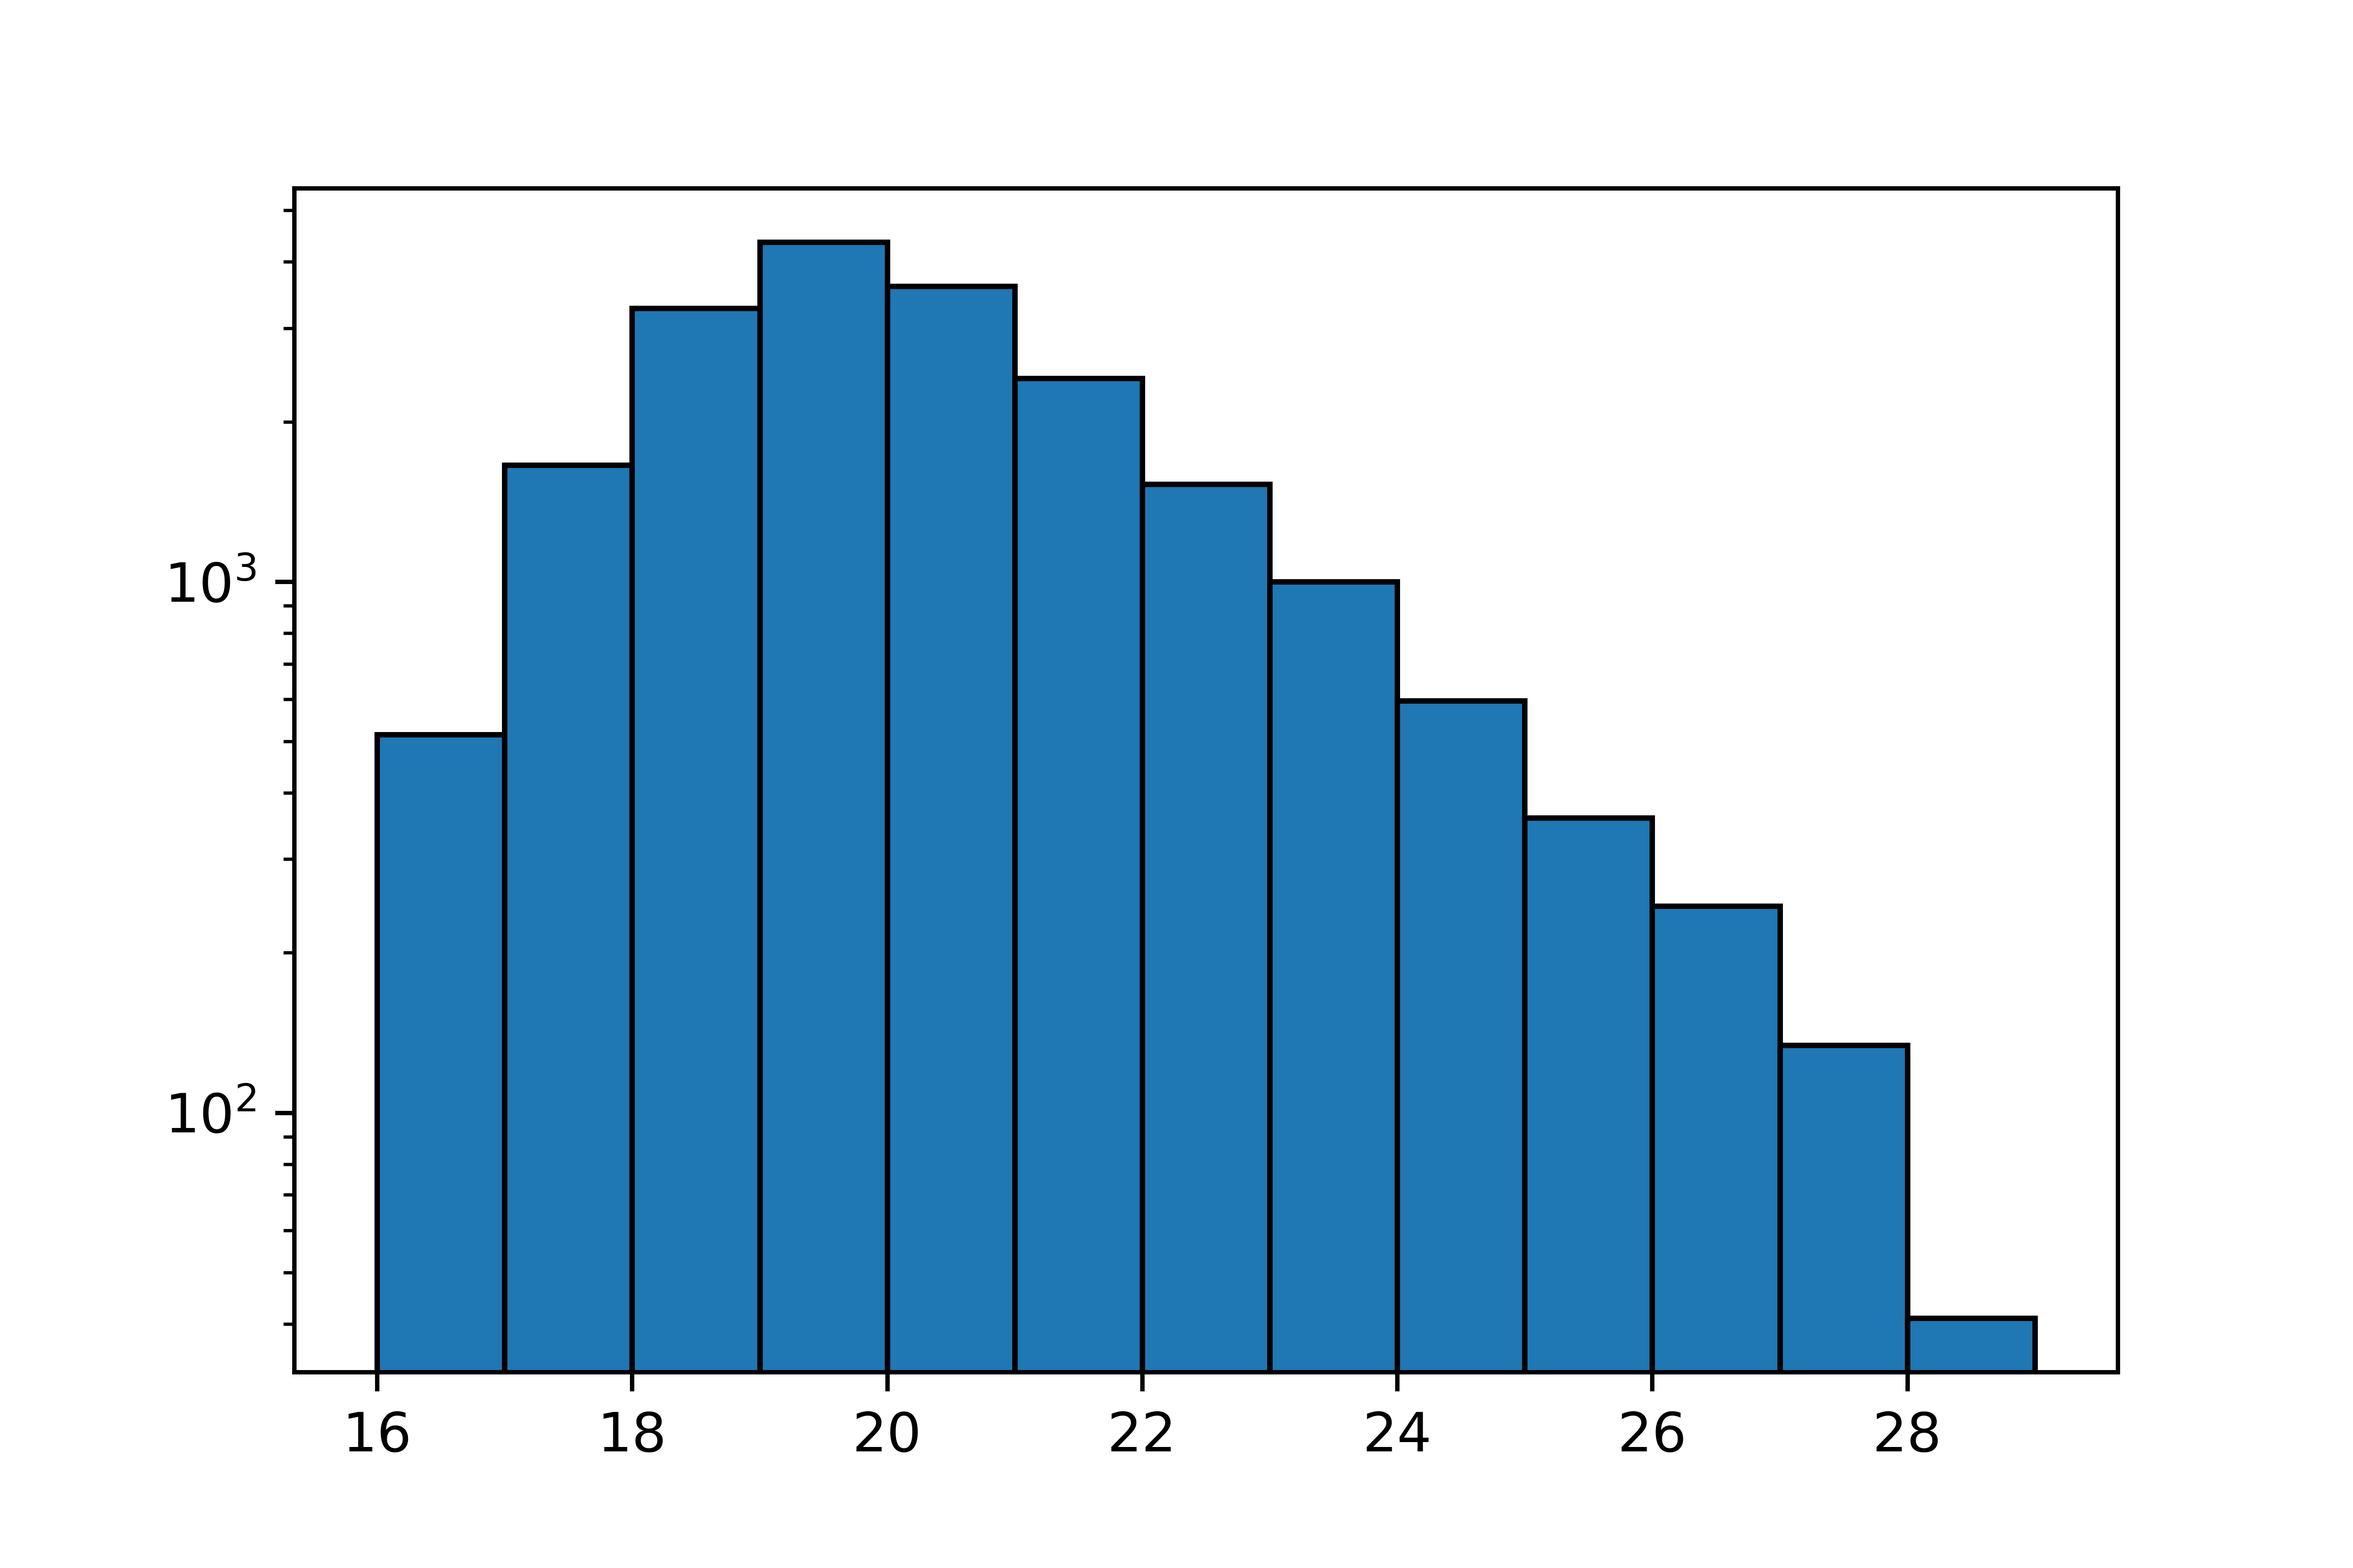
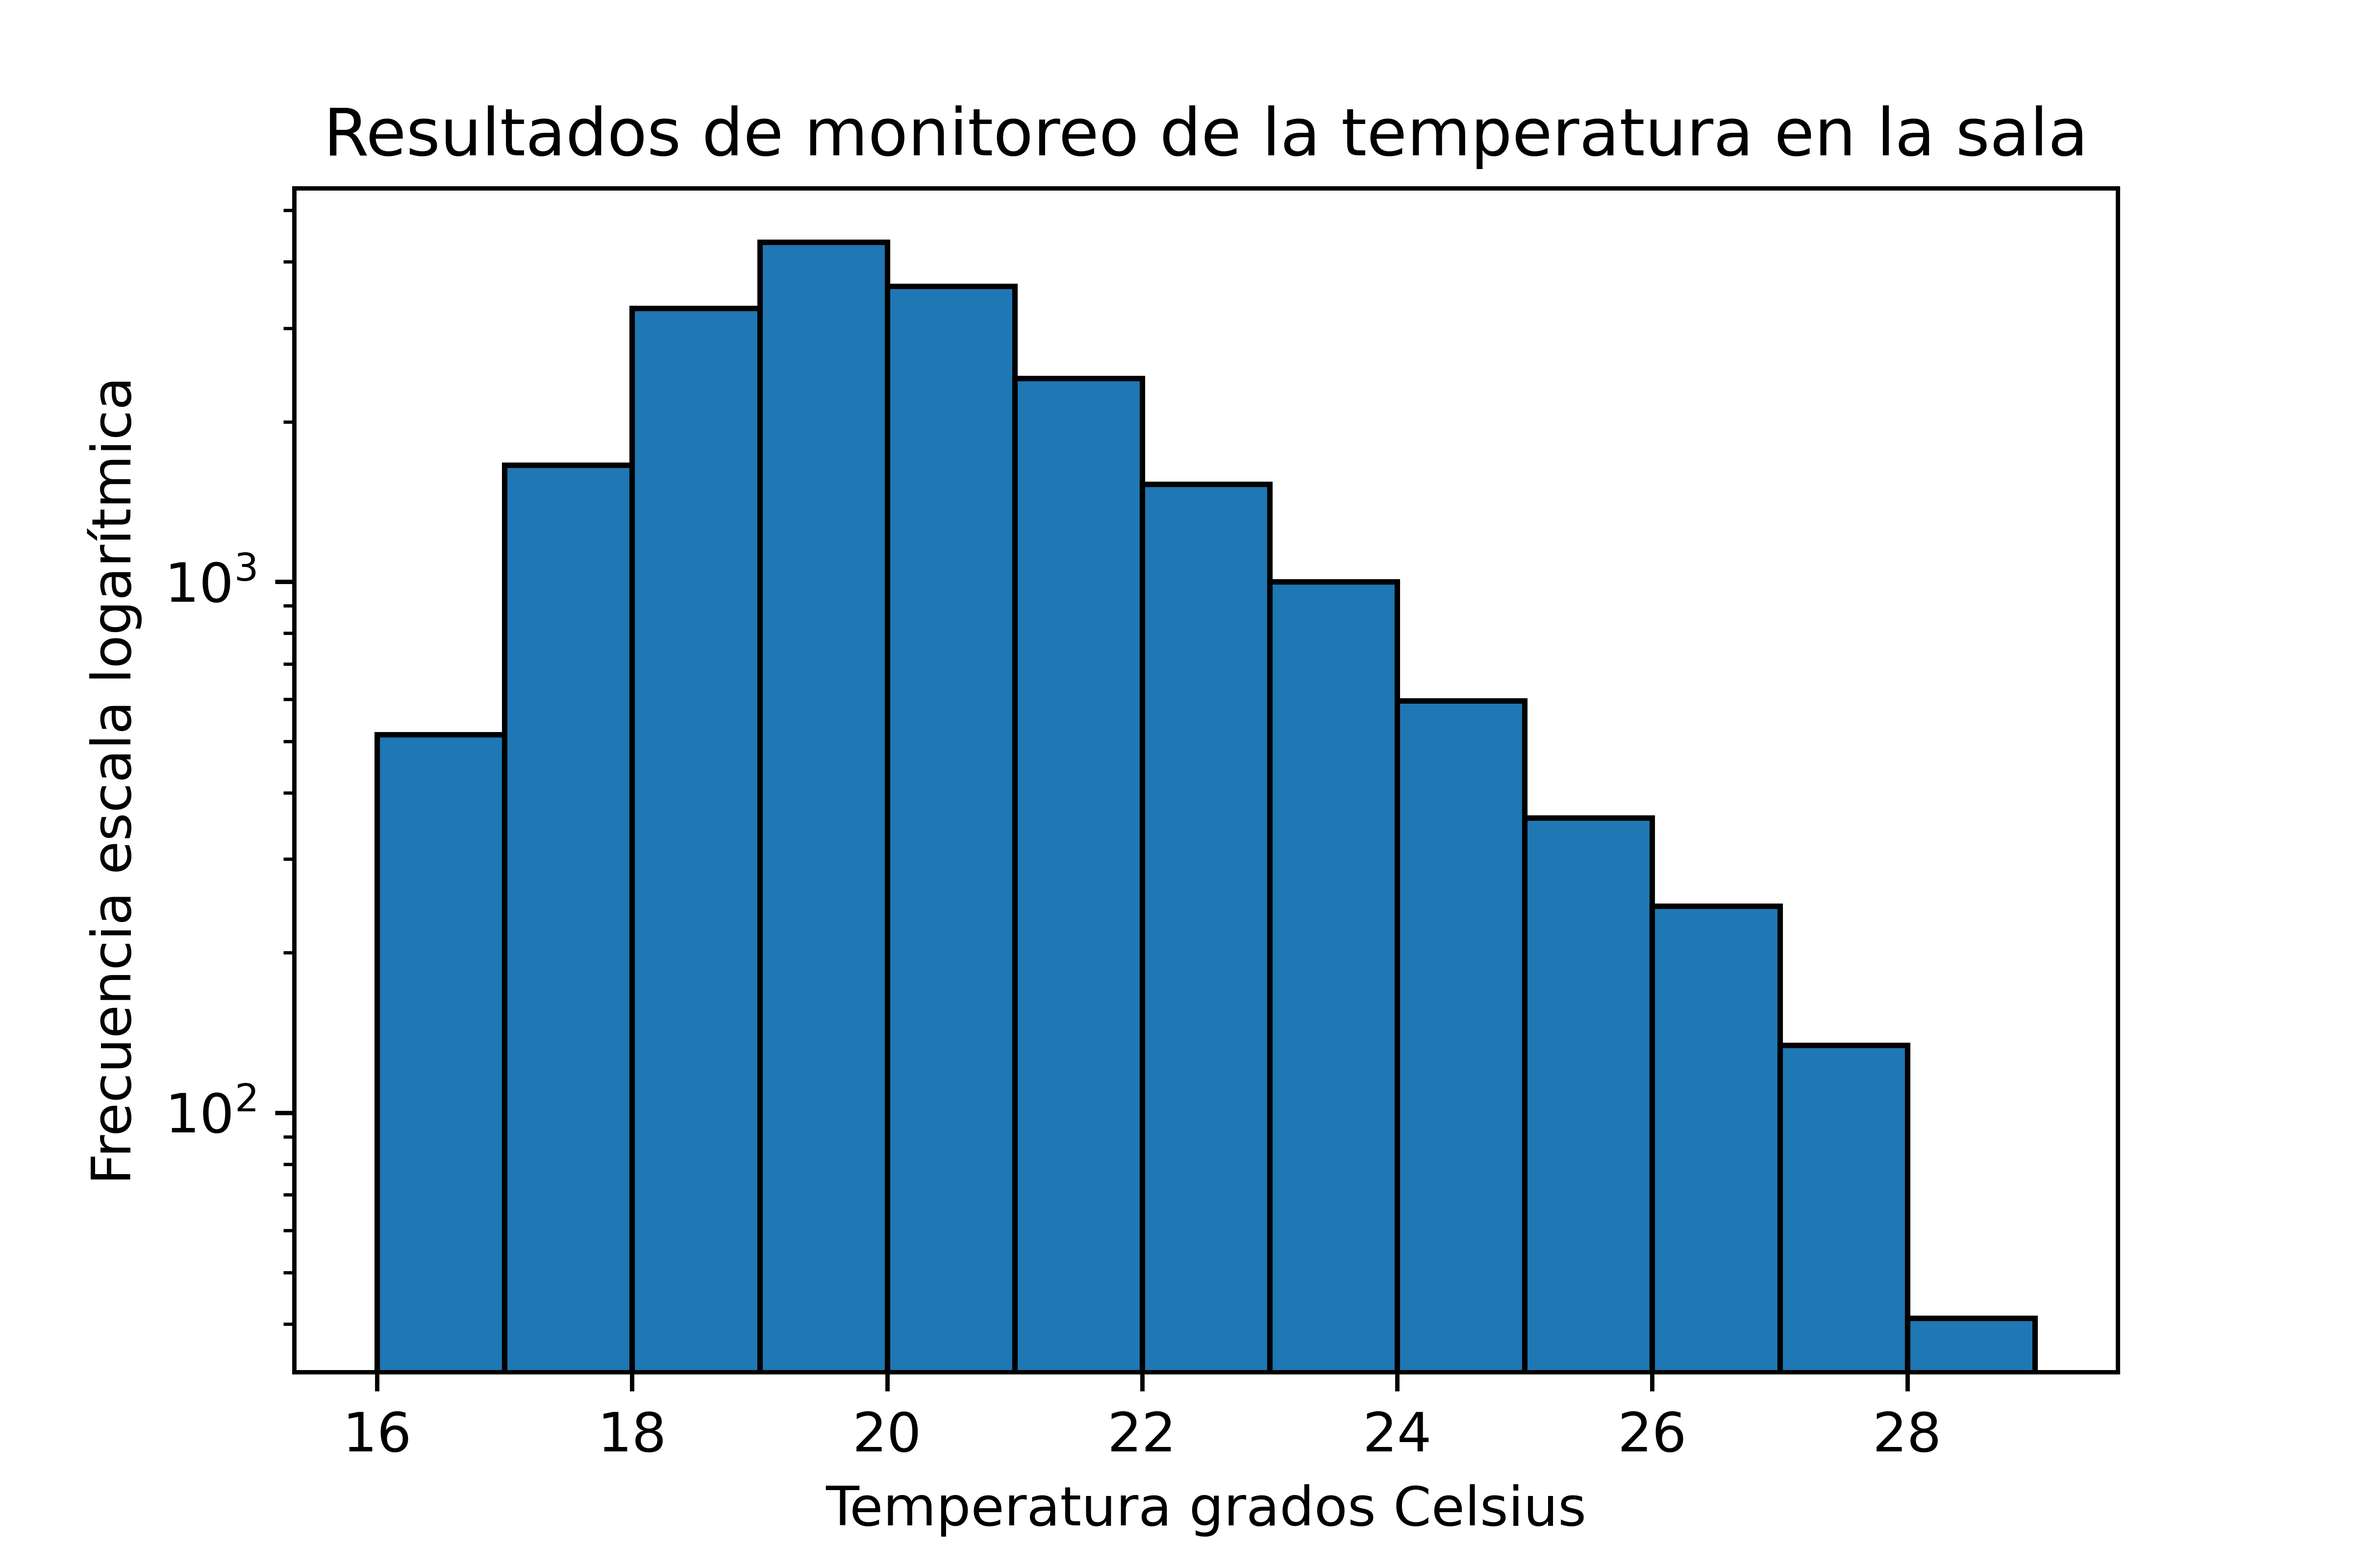
avance 2.2

Changed region(s): [[0.125, 0.0625, 0.875, 0.125], [0.0312, 0.25, 0.0625, 0.75], [0.3438, 0.9375, 0.6562, 0.9688]]

diff --git a/Panda/avance 2.py b/Panda/avance 2.py
@@ -28,6 +28,10 @@ def creación_lista_datos_temp(): ##Funcion que crea la lista de los datos
     return (lecturas_sensores_temp)    
 lecturas_sensores_temp_lista= creación_lista_datos_temp ()
 data=pd.Series(lecturas_sensores_temp_lista)
+#__________________histograma______________________
+plt.title("Resultados de monitoreo de la temperatura en la sala")
+plt.xlabel("Temperatura grados Celsius")
+plt.ylabel("Frecuencia escala logarítmica")
 bins=range(16,30) #limites del histograma
 plt.hist(data, bins=bins, edgecolor='black', log=True)
 plt.savefig('histograma',dpi=800)
@@ -35,7 +39,7 @@ plt.savefig('histograma',dpi=800)
 #codigo tiene que calcular: promedio, mediana, varianza, desviacion estandar, cuartiles, coeficiente de variación, rango muestral e intercuartilico
 mean=round(data.mean(),2)
 size=data.size
-mode=round(data.mode(),2)
+mode=round(data.mode(),2).values[0]
 var=round(data.var(),2)
 std=round(data.std(),2)
 cov=round((std/mean)*100,2)
@@ -47,7 +51,6 @@ q3=data.quantile(q=.75,interpolation= "higher")
 
 rangeq=q3-q1 #rango intercuartílico
 rango=maximo-minimo
-print("Resumen de las medidas de tendencia central y dispersión", "\nMínimo = " ,
-      minimo,"\nMáximo = ", maximo,
+print("Resumen de las medidas de tendencia central y dispersión", "\nMínimo = " , minimo,"\nMáximo = ", maximo,"\nModa = ", mode,
       "\nPromedio = ", mean, "\nCuartil 1 = ", q1, "\nMediana = ", mediana, "\nCuartil 3 = ", q3, "\nVarianza = ",
       var, "\nDesviación estandar = ", std, "\nCoeficiente de variación = ", cov, "\nCantidad de datos = ", size)
